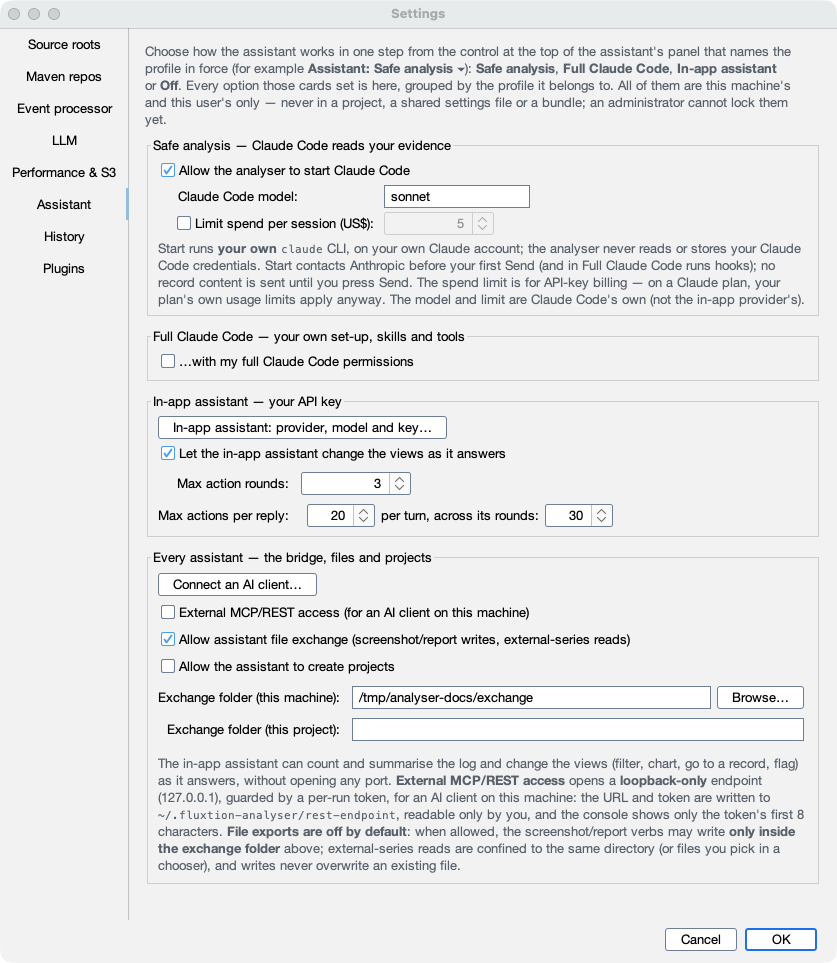
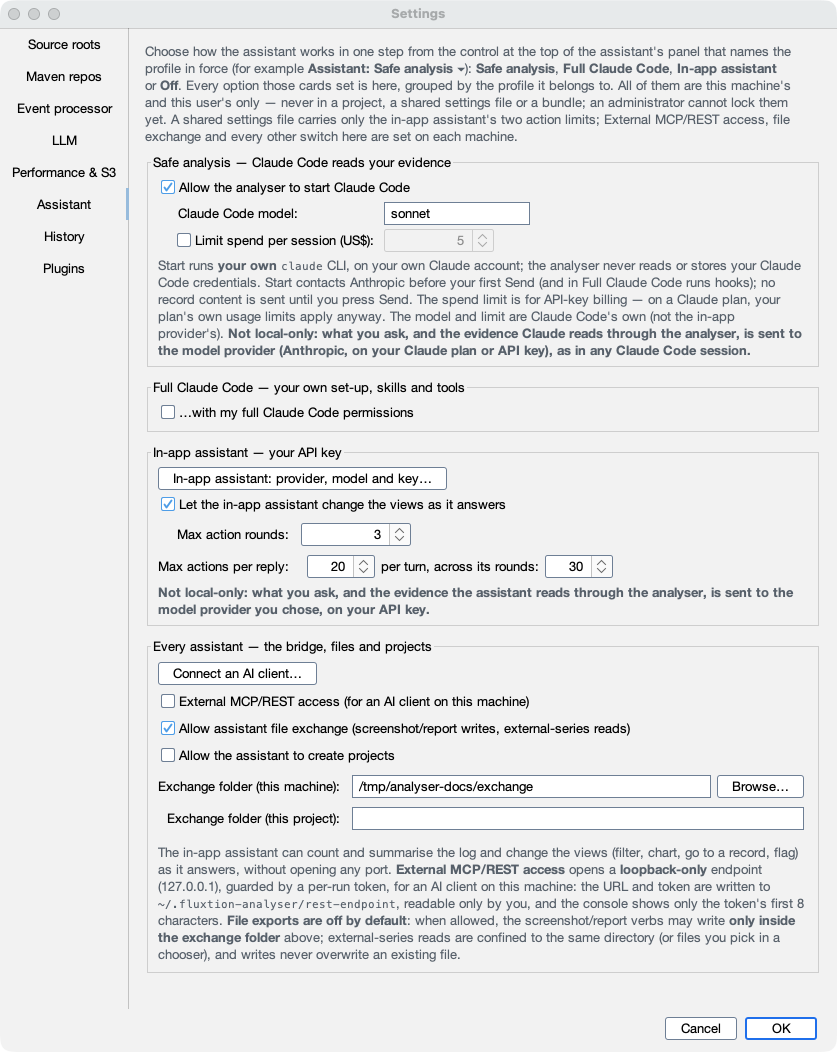
docs: regenerate settings-assistant.png for P3's Assistant tab note
Captured with tools/capture-docs.py --m74 (window id, isolated
user.home, demo fixture only). It now shows P3's sentence that a shared
settings file carries only the in-app assistant's two action limits.
Every visible string read: product text, /tmp/analyser-docs/exchange
and ~/.fluxtion-analyser/rest-endpoint only. The other M74 shots the
run re-rendered were left unchanged.

Claude-Session: https://claude.ai/code/session_01Bhwkr5MmFDGufDuKy1iYWF

Changed region(s): [[0.0, 0.0, 0.963, 0.9346], [0.8076, 0.9657, 0.963, 0.9969]]

diff --git a/docs/site/assets/README.md b/docs/site/assets/README.md
@@ -160,6 +160,11 @@ This display is 1920×1080 at 1x, so these images are 1680×1050 (dialogs at the
 Retina 2x. Every image was opened and its visible strings read: only DEMO, `com.acme`, `/tmp/analyser-docs/…`,
 `~/.fluxtion-analyser`, the demo file names and placeholder plan names appear.
 
+`settings-assistant.png` was regenerated again for the PR #152 review fixes (2026-10-18), with `--m74` under the
+isolated home: P3 (`0cafba96`) added the Assistant tab's sentence that a shared settings file carries only the in-app
+assistant's two action limits. Its visible strings were read: product text, `/tmp/analyser-docs/exchange` and
+`~/.fluxtion-analyser/rest-endpoint` only.
+
 Three capture-path fixes came with it. Menu shots composite the frame and its popup windows, each taken by window id
 (`tools/CompositeShot.java`) — since the M74 final-review integration there is no region capture at all, for menus or
 windows: a shot that cannot be taken by window id is reported as not captured; the window's top edge is 28 so the whole
